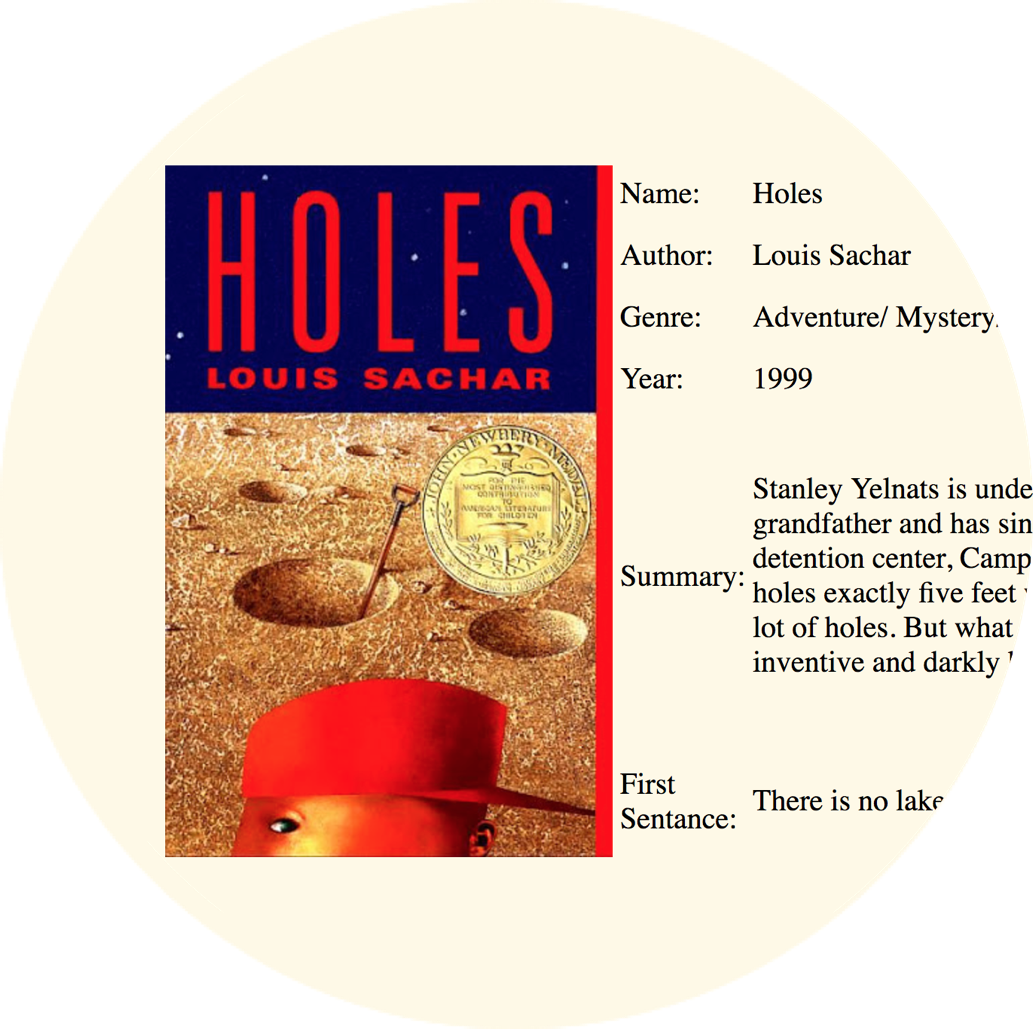
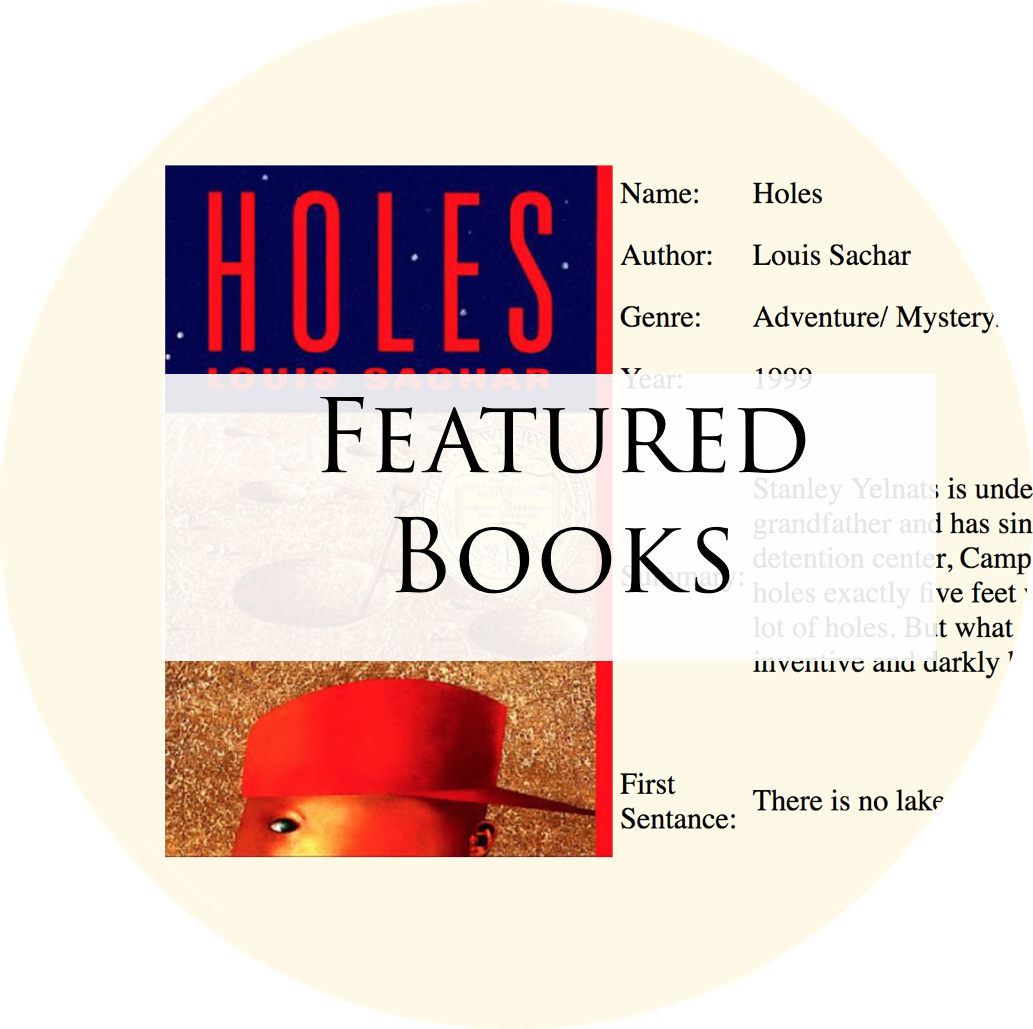
delete pics and add some

Changed region(s): [[0.1549, 0.3421, 0.8984, 0.6531]]

diff --git a/index.html b/index.html
@@ -151,8 +151,8 @@ background: -webkit-linear-gradient(top, #999999 0%,#454545 40%);
 }
 
 #Home{
-	top: -1417px;
-	left: -310px;
+	top: -1379px;
+	left: -320px;
 	position: relative;
 	z-index: 5;	
 }
@@ -192,7 +192,7 @@ background: -webkit-linear-gradient(top, #999999 0%,#454545 40%);
 }
 
 #AllNewberyBook{
-	top: -1246px;
+	top: -1108px;
 	left: -266px;
 	position: relative;
 	z-index: 5;	
@@ -232,14 +232,13 @@ background: -webkit-linear-gradient(top, #999999 0%,#454545 40%);
 </TR >
 </TABLE></CENTER>
 
-<DIV id=circle_1></DIV>
-<DIV id=circle_2></DIV>
-<DIV id=circle_3></DIV>
-<DIV id=circle_4></DIV>
+<DIV id=circle_1><A HREF='About Us.html' target=_self></A></DIV>
+<DIV id=circle_2><A HREF='Featured Books.html' target=_self></A></DIV>
+<DIV id=circle_3><A HREF='All Newbery Books.html' target=_self></A></DIV>
 
-<DIV id='FB'><A HREF='Featured Books.html' target=_self><IMG SRC= 'Images/circle.png' width= '350'></A></DIV>
+<DIV id='FB'><A HREF='Featured Books.html' target=_self><IMG SRC= 'Images/circle copy.png' width= '350'></A></DIV>
 
-<DIV id='Home'><A HREF='About Us.html' target=_self><IMG SRC= 'Images/New Newbery Logo copy.png' width= '350'></A></DIV>
+<DIV id='Home'><A HREF='About Us.html' target=_self><IMG SRC= 'Images/aboutus copy.png' width= '350'></A></DIV>
 
 <DIV id='AllNewberyBook'><A HREF='All Newbery Books.html' target=_self><IMG SRC= 'Images/all_newbery_books.png' width= '500'></A></DIV>
 
